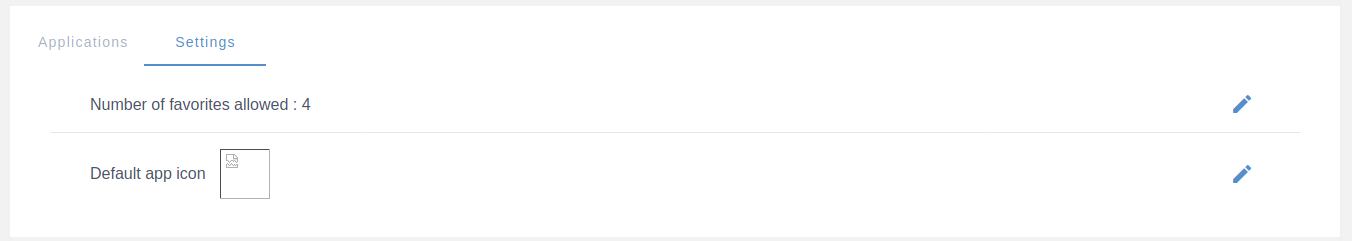
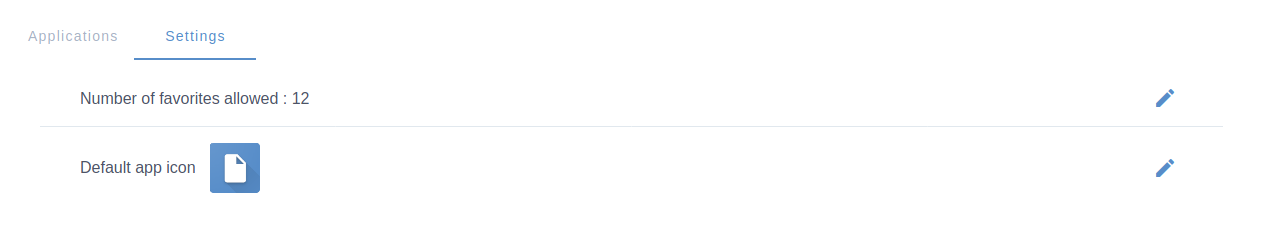
App Center: Add documentation for the drawer Add app

diff --git a/docs/Administration.rst b/docs/Administration.rst
@@ -3075,18 +3075,21 @@ As a platform administrator, you can manage the Application Center by:
 -  Defining the number of allowed favorite applications
 -  Defining mandatory applications that appear in every favorite applications drawer/list
 -  Defining default icon for added applications
--  Adding new applications
+-  Adding/Editing applications
 
 To access the administration menu for Application Center, you need to access to the left navigation menu through
 the hamburger icon -> Administration -> OTHER -> Applications
 
-|AC_image13|
+|AC_image0|
 
 In the administration screen for Application Center, you have two tabs: Applications and Settings
 
-|AC_image14|
+|AC_image1|
 
 .. _SettingsTabAppCenter:
+
+Settings tab
+~~~~~~~~~~~~
 
 In the settings tab you can define the two properties:
 
@@ -3094,7 +3097,69 @@ In the settings tab you can define the two properties:
 
 -  Default app icon: which defines the icon that could take an application when it is added without icon
 
+To define the above properties, you just need to click on the corresponding edit icon |AC_image2| in front of 
+the property you want to redefine.
+
+For the property **Number of favorites allowed**, you need either to move the cursor or click on +/- icons to reach
+the desired value then click on save icon |AC_image4|.
+
+|AC_image3|
+
+To set a custom default icon for application, other the one defined by eXo Platform, you need to follow these steps:
+
+-  click on the edit icon 
+-  browse for an image in your machine
+-  click on save icon to load the image in its location
+
+|AC_image5|
+
+If you need to edit the image again, you will find the previous image name instead of the browse button with a delete
+button allowing to restore the default icon.
+
+|AC_image6|
+
 .. _ApplicationsTabAppCenter:
+
+Applications tab
+~~~~~~~~~~~~~~~~~
+
+.. _AddApp:
+
+Add an application
+~~~~~~~~~~~~~~~~~~~~
+
+In the :ref:`Applications tab <ApplicationsTabAppCenter>`, you have a button "Add new application" |AC_image7|
+allowing you to open the "Add application" drawer with these fields:
+
+|AC_image9|
+
+-  ``Title``: a mandatory field allowing to define the application's name
+-  ``URL``: a mandatory field allowing to set the access URL of the application
+-  ``Image``: not mandatory, allows you to define an icon for the application, you can browse for it through your files, it
+   should have a maximum size of 100 ko, otherwise, it will not be accepted.
+-  ``Description``: not mandatory, allows you to set a description for your application to explain more its usage. 
+   This field can contain a maximum of 1000 characters.
+-  ``Mandatory``: Allows you to define if the :ref:`application is mandatory <mandatoryApps>` for end users or not, 
+   by default set to NO   
+-  ``Active``: Allows you to define if the application should be enabled or not i.e. displayed to its 
+   audience (defined in the ``Permissions`` field), by default set to "YES" i.e. active
+-  ``Mobile``: Allows you to enable or disbale the application's display in mobile devices, i.e. if you judge it a not
+   mobile friendly app, you can set this option to false and that way ot will not be dispaled in mobile devices. 
+   By default set to true.
+-  ``Permissions``: to define the application's audience, By default set to *:/platform users i.e. if you don't define
+   this field, the added application will be displayed for the platform users
+-  ``Help page``: Allows you to set a help page URL, it could be any page containing more details about the application
+   or a how to guide. If you define this field, a :ref:`clickable question mark <helpPage>` will be added to the 
+   application's card and redirecting to the defined help page.
+   
+.. note:: The |AC_image8| button remains on disabled status until mandatory fields (``Title`` and ``URL``) are set.
+          It also ramains disabled if the ``URL`` field is not valid.
+
+
+.. _EditApp
+
+Edit an application
+~~~~~~~~~~~~~~~~~~~~
 
 
 .. _ManagingSites:
@@ -6123,6 +6188,14 @@ The following image shows the screen when an anonymous user accesses
 .. |TA4| image:: images/platform/SpaceSettings.png
 .. |TA5| image:: images/platform/SpaceSettingsNavigations.png
 .. |TA6| image:: images/platform/DeleteNodeSpace.png
-.. |AC_image13| image:: images/platform/AppCenter/AdminMenuAppCenter.png
-.. |AC_image14| image:: images/platform/AppCenter/AdminAppCenterTabs.png
+.. |AC_image0| image:: images/platform/AppCenter/AdminMenuAppCenter.png
+.. |AC_image1| image:: images/platform/AppCenter/AdminAppCenterTabs.png
+.. |AC_image2| image:: images/platform/AppCenter/EditIconAppCenter.png
+.. |AC_image3| image:: images/platform/AppCenter/maxfavEdit.png
+.. |AC_image4| image:: images/platform/AppCenter/SaveIcon.png
+.. |AC_image5| image:: images/platform/AppCenter/imageEditAppCenter.png
+.. |AC_image6| image:: images/platform/AppCenter/editAgain.png
+.. |AC_image7| image:: images/platform/AppCenter/AddApp.png
+.. |AC_image8| image:: images/platform/AppCenter/Savebtn.png
+.. |AC_image9| image:: images/platform/AppCenter/AddAppDrawer.png
 

diff --git a/docs/PersonalApplications.rst b/docs/PersonalApplications.rst
@@ -552,6 +552,8 @@ You just need to click on |AC_image4| button in the drawer to access the Applica
 Application center is divided into 2 parts: on the right listing your favorite applications with mandatory applications pinned 
 in the top and on the the left listing the whole applications your are allowed to view and use.
 
+.. _mandatoryApps:
+
 .. note:: Mandatory applications coudn't be unfavorized and their star button is grey colored and unclickable in both parts: 
           Favorite applications list and Application Center. 
           On the grey star button's hover, a tooltip appears with the information "Mandatory application".
@@ -565,13 +567,20 @@ The second part contains applications cards with these details for each one:
 -  Two buttons "Open" and |AC_image6| in the card's bottom
 -  The icon |AC_image7| in the card's topper
 
+|AC_image13|
+
+.. _helpPage:
+
+.. note:: The icon |AC_image14| may not appear in the application's card when the help page is not defined 
+          when creating the application.
+
 .. _star-button:
 
 .. tip:: The star button contains three statuses:
 
-         - Grey color, not clickable: for mandatory applications
-         - Yellow borders and white body: for application not yet favorized
-         - Yellow color: for applications already favorized
+         - |AC_image15| Grey color, not clickable: for mandatory applications
+         - |AC_image17| Yellow borders and white body: for application not yet favorized
+         - |AC_image16| Yellow color: for applications already favorized
 
 You can favorite an application in the Application Center by clicking on the :ref:`star button <star-button>` in the application's card.
 The "Star" button will then be yellow colored and the application will be automatically added to the right panel
@@ -586,6 +595,11 @@ You can also unfavorite an application in the Application Center either by click
 .. note:: When you reach the maximum of allowed favorite defined by an administrator, a red colored message appears informing you that you are not allowed to add another favorite application.
           
           |AC_image10|
+          
+          Before reaching the maximum of favorite applications, you also have a message informing you about the 
+          number of maximum of allowed favorites.
+          
+          |AC_image18|
           
 In the Application Center page, you can search for applications using a keyword allowing to filter on applications' names.
 
@@ -1366,3 +1380,9 @@ such as:
 .. |AC_image10| image:: images/platform/AppCenter/maxFavAppsMsg.png
 .. |AC_image11| image:: images/platform/AppCenter/tooltip_mandatory.png
 .. |AC_image12| image:: images/platform/AppCenter/filter_app_center.png
+.. |AC_image13| image:: images/platform/AppCenter/AppCard.png
+.. |AC_image14| image:: images/platform/AppCenter/HelpIconCard.png
+.. |AC_image15| image:: images/platform/AppCenter/greyStar.png
+.. |AC_image16| image:: images/platform/AppCenter/YellowStar.png
+.. |AC_image17| image:: images/platform/AppCenter/unfavorizedAppStar.png
+.. |AC_image18| image:: images/platform/AppCenter/messageAllowedfav.png
